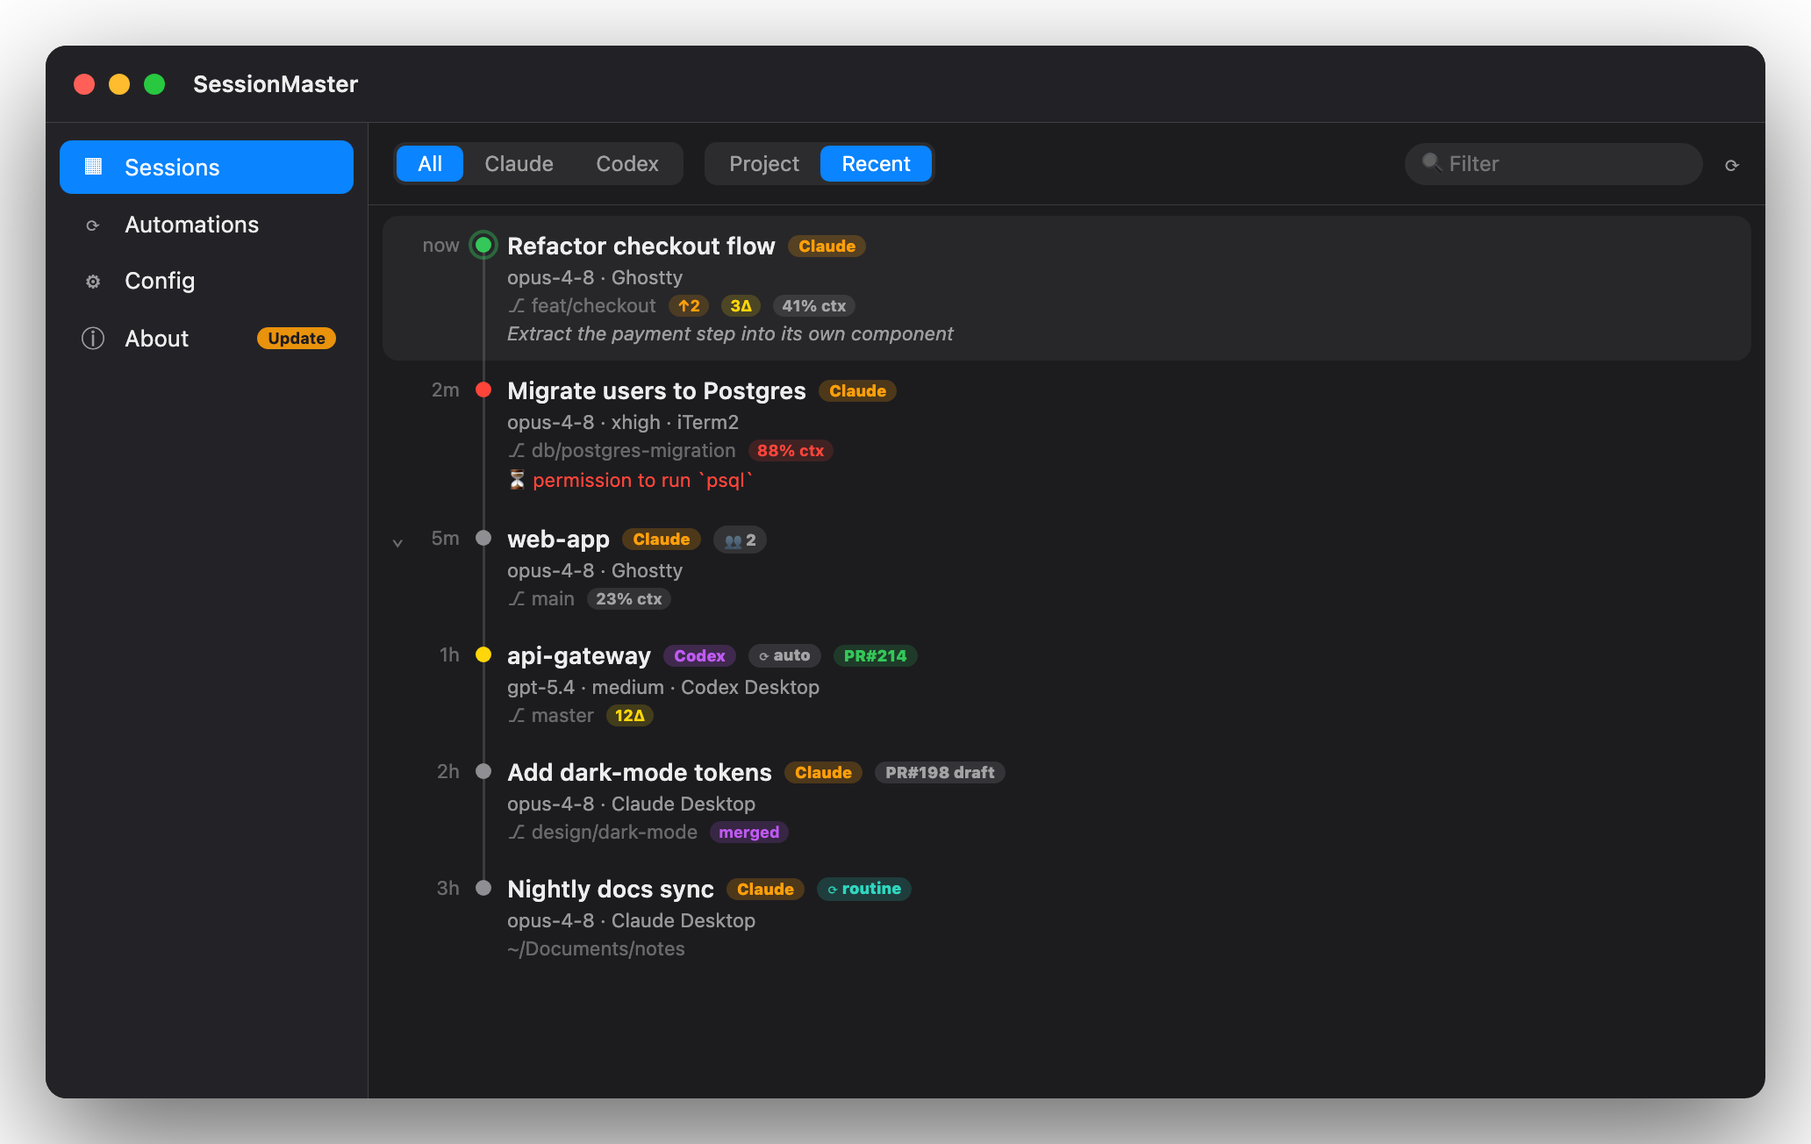
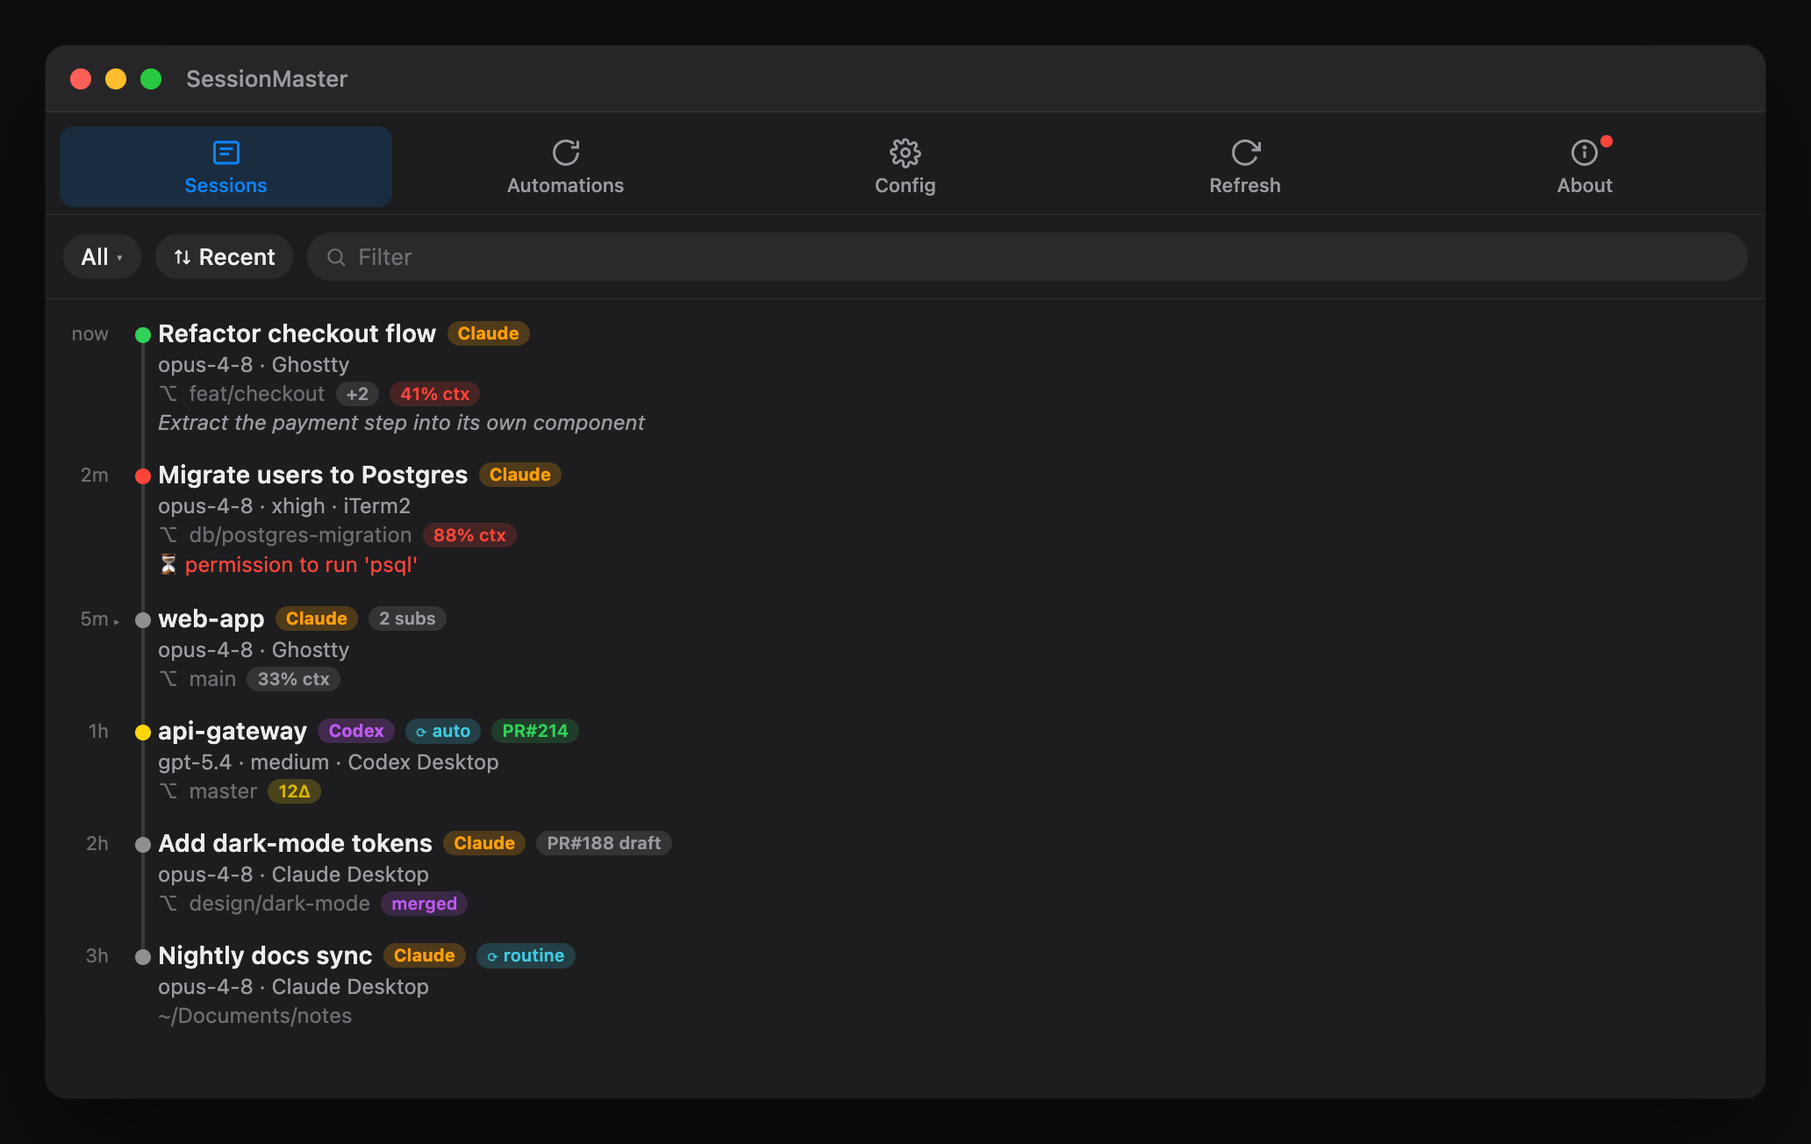
feat: top tab bar + roomier list, collapsible filter, Sort menu
Replace the dashboard sidebar with a Tailscale-style top tab bar (icon over
label, selected highlighted) and fold Refresh into it, left of About. About's
update badge becomes a small red dot on the icon.

Session controls get more flexible in the narrow window:
- source filter collapses to one pill ("All ▾") and expands the three choices
  on tap, snapping back after a pick — saves width;
- Project/Recent fold into a single compact "Sort" menu;
- the search field expands to full width on focus (filter/sort slide away) for
  easier editing of a long query.

Bump every list font one step (Sessions + Automations rows) for readability.

Regenerate the dashboard/popover mockups to match, and fix the README caption
(top tabs, not sidebar).

diff --git a/Sources/SessionMaster/MainWindowView.swift b/Sources/SessionMaster/MainWindowView.swift
@@ -28,37 +28,27 @@ struct MainWindowView: View {
     @State private var settings = AppSettings.shared
     @State private var window: NSWindow?
     @State private var didSetInitialSize = false
-    // Start with the sidebar hidden so the window opens as a narrow session list; the title-bar
-    // sidebar toggle (and ⌃⌘S) reveals the tabs on demand.
-    @State private var columnVisibility: NavigationSplitViewVisibility = .detailOnly
+    @FocusState private var searchFocused: Bool
+    @State private var filterExpanded = false
     private let perProjectLimit = 5
 
     var body: some View {
-        // Collapsible sidebar, but driven by an explicit columnVisibility binding so the toggle
-        // animates to a defined state instead of getting stuck half-overlaid (the default
-        // NavigationSplitView without a binding glitches on macOS).
-        NavigationSplitView(columnVisibility: $columnVisibility) {
-            List(DashboardTab.allCases, id: \.self, selection: Binding(
-                get: { store.selectedTab }, set: { if let v = $0 { store.selectedTab = v } })) { tab in
-                Label(tab.rawValue, systemImage: tab.icon)
-                    .badge(tab == .about && store.availableUpdate != nil ? "Update" : nil)
-                    .tag(tab)
-            }
-            .navigationSplitViewColumnWidth(min: 150, ideal: 168, max: 220)
-        } detail: {
-            VStack(spacing: 0) {
-                if store.selectedTab == .sessions { sessionControls; Divider() }
-                if !store.accessibilityTrusted { AccessibilityBanner(store: store) }
-                switch store.selectedTab {
-                case .sessions:    sessionsList
-                case .automations: automationsList
-                case .config:      ConfigView(store: store)
-                case .about:       AboutView()
-                }
+        // A compact top tab bar (icon over label, selected one highlighted) replaces the old
+        // sidebar — it keeps the window narrow without stealing a whole column, and the tabs are
+        // always visible instead of hidden behind a toggle.
+        VStack(alignment: .leading, spacing: 0) {
+            tabBar
+            Divider()
+            if store.selectedTab == .sessions { sessionControls; Divider() }
+            if !store.accessibilityTrusted { AccessibilityBanner(store: store) }
+            switch store.selectedTab {
+            case .sessions:    sessionsList
+            case .automations: automationsList
+            case .config:      ConfigView(store: store)
+            case .about:       AboutView()
             }
         }
-        .navigationSplitViewStyle(.balanced)
-        .frame(minWidth: 420, minHeight: 460)
+        .frame(minWidth: 380, minHeight: 460)
         .background(.background)
         .background(WindowAccessor { window = $0; applyAlwaysOnTop(); applyInitialSize() })
         .onChange(of: settings.dashboardAlwaysOnTop) { applyAlwaysOnTop() }
@@ -95,26 +85,139 @@ struct MainWindowView: View {
         }
     }
 
-    // MARK: Session controls (filter / sort / search — the tabs live in the sidebar now)
+    // MARK: Tab bar (Tailscale-style: icon over label, the selected one highlighted)
+
+    private var tabBar: some View {
+        HStack(spacing: 4) {
+            ForEach([DashboardTab.sessions, .automations, .config], id: \.self) { tabButton($0) }
+            // Refresh lives here (left of About), styled like a tab (icon + label) for consistency
+            // but without the selected highlight since it's an action, not a tab. It re-scans every
+            // session's latest state now (the app also auto-polls every 2s).
+            Button { store.refresh() } label: {
+                VStack(spacing: 3) {
+                    Image(systemName: "arrow.clockwise").font(.system(size: 15, weight: .medium))
+                    Text("Refresh").font(.system(size: 10, weight: .medium)).lineLimit(1)
+                }
+                .frame(maxWidth: .infinity).padding(.vertical, 6)
+                .foregroundStyle(.secondary).contentShape(Rectangle())
+            }
+            .buttonStyle(.plain).pointerCursor().help("Refresh now — re-scan all sessions")
+            tabButton(.about)
+        }
+        .padding(.horizontal, 8).padding(.top, 8).padding(.bottom, 4)
+    }
+
+    private func tabButton(_ tab: DashboardTab) -> some View {
+        let selected = store.selectedTab == tab
+        let hasUpdate = tab == .about && store.availableUpdate != nil
+        return Button { store.selectedTab = tab } label: {
+            VStack(spacing: 3) {
+                Image(systemName: tab.icon).font(.system(size: 15, weight: .medium))
+                    // A small dot on About flags an available update (replaces the old badge).
+                    .overlay(alignment: .topTrailing) {
+                        if hasUpdate {
+                            Circle().fill(.red).frame(width: 6, height: 6).offset(x: 5, y: -2)
+                        }
+                    }
+                Text(tab.rawValue).font(.system(size: 10, weight: .medium)).lineLimit(1)
+            }
+            .frame(maxWidth: .infinity)
+            .padding(.vertical, 6)
+            .foregroundStyle(selected ? Color.accentColor : Color.secondary)
+            .background(RoundedRectangle(cornerRadius: 8)
+                .fill(selected ? Color.accentColor.opacity(0.14) : .clear))
+            .contentShape(Rectangle())
+        }
+        .buttonStyle(.plain).pointerCursor()
+        .help(tab.rawValue + (hasUpdate ? " — update available" : ""))
+    }
+
+    // MARK: Session controls (filter / sort / search)
 
     private var sessionControls: some View {
-        HStack(spacing: 12) {
-            Picker("", selection: $sourceFilter) {
-                ForEach(SourceFilter.allCases, id: \.self) { Text($0.rawValue).tag($0) }
-            }.pickerStyle(.segmented).fixedSize()
-            Picker("", selection: $sortMode) {
+        // Fits the narrow (~380pt) default: a collapsible source filter + a compact Sort menu keep
+        // their natural size; the search field absorbs the rest. On focus the filter/sort slide away
+        // so the input grows to the full width — easier to read/edit a long query.
+        HStack(spacing: 8) {
+            if !searchFocused {
+                sourceFilterControl
+                sortControl
+            }
+            searchField
+        }
+        .padding(.horizontal, 8).padding(.vertical, 10)
+        .animation(.easeInOut(duration: 0.18), value: searchFocused)
+        .animation(.easeInOut(duration: 0.18), value: filterExpanded)
+        .onChange(of: searchFocused) { if searchFocused { filterExpanded = false } }
+    }
+
+    /// Source filter that saves width: collapsed to one pill showing the active source; tap to
+    /// expand the three choices, and picking one collapses it back.
+    @ViewBuilder private var sourceFilterControl: some View {
+        if filterExpanded {
+            HStack(spacing: 2) {
+                ForEach(SourceFilter.allCases, id: \.self) { f in
+                    let on = sourceFilter == f
+                    Button { sourceFilter = f; filterExpanded = false } label: {
+                        Text(f.rawValue).font(.caption.weight(.medium))
+                            .padding(.horizontal, 8).padding(.vertical, 4)
+                            .background(RoundedRectangle(cornerRadius: 7)
+                                .fill(on ? Color.accentColor.opacity(0.18) : Color.primary.opacity(0.06)))
+                            .foregroundStyle(on ? Color.accentColor : .primary)
+                    }.buttonStyle(.plain).pointerCursor()
+                }
+            }
+        } else {
+            // Tint the pill when a non-default filter is active so it reads as "filtered".
+            let active = sourceFilter != .all
+            Button { filterExpanded = true } label: {
+                HStack(spacing: 3) {
+                    Text(sourceFilter.rawValue).font(.caption.weight(.medium))
+                    Image(systemName: "chevron.down").font(.system(size: 8, weight: .semibold))
+                }
+                .padding(.horizontal, 8).padding(.vertical, 4)
+                .foregroundStyle(active ? Color.accentColor : .primary)
+                .background(active ? Color.accentColor.opacity(0.14) : Color.primary.opacity(0.06))
+                .clipShape(Capsule())
+            }.buttonStyle(.plain).pointerCursor().help("Filter by source")
+        }
+    }
+
+    /// Project / Recent aggregated into one compact "Sort" dropdown.
+    private var sortControl: some View {
+        Menu {
+            Picker("Sort", selection: $sortMode) {
                 ForEach(SortMode.allCases, id: \.self) { Text($0.rawValue).tag($0) }
-            }.pickerStyle(.segmented).fixedSize().help("Sort order")
-            Spacer()
-            HStack(spacing: 4) {
-                Image(systemName: "magnifyingglass").foregroundStyle(.secondary).font(.caption)
-                TextField("Filter", text: $search).textFieldStyle(.plain).frame(width: 160)
+            }
+        } label: {
+            HStack(spacing: 3) {
+                Image(systemName: "arrow.up.arrow.down").font(.system(size: 9, weight: .semibold))
+                Text(sortMode.rawValue).font(.caption.weight(.medium))
             }
             .padding(.horizontal, 8).padding(.vertical, 4)
             .background(Color.primary.opacity(0.06)).clipShape(Capsule())
-            Button { store.refresh() } label: { Image(systemName: "arrow.clockwise") }
-                .buttonStyle(.borderless).help("Refresh now").pointerCursor()
-        }.padding(10)
+        }
+        .menuStyle(.borderlessButton).menuIndicator(.hidden).fixedSize()
+        .pointerCursor().help("Sort order")
+    }
+
+    private var searchField: some View {
+        HStack(spacing: 4) {
+            Image(systemName: "magnifyingglass").foregroundStyle(.secondary).font(.caption)
+            TextField("Filter", text: $search).textFieldStyle(.plain).focused($searchFocused)
+            if !search.isEmpty {
+                Button { search = "" } label: {
+                    Image(systemName: "xmark.circle.fill").foregroundStyle(.secondary).font(.caption)
+                }.buttonStyle(.plain).pointerCursor()
+            }
+            if searchFocused {
+                Button("Done") { searchFocused = false }
+                    .buttonStyle(.plain).font(.caption).foregroundStyle(.tint).pointerCursor()
+            }
+        }
+        .padding(.horizontal, 8).padding(.vertical, 5)
+        .frame(maxWidth: .infinity)
+        .background(Color.primary.opacity(0.06)).clipShape(Capsule())
     }
 
     // MARK: Sessions (grouped by project)
@@ -163,13 +266,16 @@ struct MainWindowView: View {
             // Plain scroll with zero inter-row spacing so each row's timeline rail joins the next
             // into one continuous vertical line (a List inserts gaps that break the rail).
             ScrollView {
-                LazyVStack(spacing: 0) {
+                // Leading alignment + full-width rows so a row wider than the (narrow) window
+                // truncates on the right instead of centering and clipping both edges.
+                LazyVStack(alignment: .leading, spacing: 0) {
                     ForEach(Array(recentNodes.enumerated()), id: \.element.id) { idx, node in
                         SessionNodeView(node: node, expanded: $expandedNodes, store: store,
                                         isFirst: idx == 0, isLast: idx == recentNodes.count - 1)
+                            .frame(maxWidth: .infinity, alignment: .leading)
                             .padding(.horizontal, 6)
                     }
-                }.padding(.vertical, 6)
+                }.padding(.vertical, 6).frame(maxWidth: .infinity)
             }
         } else {
             List {

diff --git a/Sources/SessionMaster/SessionRowView.swift b/Sources/SessionMaster/SessionRowView.swift
@@ -33,16 +33,16 @@ struct SessionRowView: View {
                 HStack(spacing: 6) {
                     if editing {
                         TextField("Title", text: $draft)
-                            .textFieldStyle(.roundedBorder).font(.system(size: isChild ? 12 : 13))
+                            .textFieldStyle(.roundedBorder).font(.system(size: isChild ? 13 : 14))
                             .frame(maxWidth: 220).focused($titleFocused)
                             .onAppear { titleFocused = true }
                             .onSubmit { onRename?(draft); editing = false }
                             .onExitCommand { editing = false }
                     } else {
                         Text(session.displayTitle)
-                            .font(.system(size: isChild ? 12 : 13, weight: .medium)).lineLimit(1)
+                            .font(.system(size: isChild ? 13 : 14, weight: .medium)).lineLimit(1)
                         if session.rich.customTitle != nil {
-                            Image(systemName: "pencil").font(.system(size: 8)).foregroundStyle(.tertiary)
+                            Image(systemName: "pencil").font(.system(size: 9)).foregroundStyle(.tertiary)
                         }
                         sourceBadge
                         if session.isEnded { resumeChip }
@@ -54,15 +54,15 @@ struct SessionRowView: View {
                 }
                 metaLine
                 HStack(spacing: 6) {
-                    if session.isWorktree { Image(systemName: "arrow.triangle.branch").font(.system(size: 9)) }
-                    Text(branchOrPath).font(.caption2).foregroundStyle(.tertiary).lineLimit(1)
+                    if session.isWorktree { Image(systemName: "arrow.triangle.branch").font(.system(size: 10)) }
+                    Text(branchOrPath).font(.caption).foregroundStyle(.tertiary).lineLimit(1)
                     gitChips
                 }
                 if let sub = session.subtitle, !sub.isEmpty {
-                    Text(sub).font(.caption2).foregroundStyle(.secondary).lineLimit(1).italic()
+                    Text(sub).font(.caption).foregroundStyle(.secondary).lineLimit(1).italic()
                 }
                 if session.attention == .needsApproval, let w = session.waitingFor {
-                    Text("⏳ \(w)").font(.caption2).foregroundStyle(.red).lineLimit(1)
+                    Text("⏳ \(w)").font(.caption).foregroundStyle(.red).lineLimit(1)
                 }
             }
             .padding(.vertical, rowVPad)
@@ -107,7 +107,7 @@ struct SessionRowView: View {
                 .padding(.top, 4).help(session.attention.label)
         } else {
             HStack(alignment: .top, spacing: 5) {
-                Text(relativeAge ?? "").font(.system(size: 10)).foregroundStyle(.tertiary)
+                Text(relativeAge ?? "").font(.system(size: 11)).foregroundStyle(.tertiary)
                     .frame(width: 28, alignment: .trailing).padding(.top, rowVPad)
                 ZStack(alignment: .top) {
                     railLine
@@ -136,7 +136,7 @@ struct SessionRowView: View {
 
     private var sourceBadge: some View {
         Text(session.source.isCodex ? "Codex" : "Claude")
-            .font(.system(size: 9, weight: .bold))
+            .font(.system(size: 10, weight: .bold))
             .padding(.horizontal, 5).padding(.vertical, 1)
             .background(session.source.isCodex ? Color.purple.opacity(0.22) : Color.orange.opacity(0.22))
             .foregroundStyle(session.source.isCodex ? .purple : .orange)
@@ -144,7 +144,7 @@ struct SessionRowView: View {
     }
 
     private func chip(_ text: String, _ color: Color) -> some View {
-        Text(text).font(.system(size: 9, weight: .semibold))
+        Text(text).font(.system(size: 10, weight: .semibold))
             .padding(.horizontal, 5).padding(.vertical, 1)
             .background(color.opacity(0.18)).foregroundStyle(color).clipShape(Capsule())
     }
@@ -183,8 +183,8 @@ struct SessionRowView: View {
     /// or a Claude routine ("routine"). Same clock glyph as the Automations tab.
     private func scheduleBadge(_ text: String, _ color: Color) -> some View {
         HStack(spacing: 2) {
-            Image(systemName: "clock.arrow.2.circlepath").font(.system(size: 8))
-            Text(text).font(.system(size: 9, weight: .bold))
+            Image(systemName: "clock.arrow.2.circlepath").font(.system(size: 9))
+            Text(text).font(.system(size: 10, weight: .bold))
         }
         .padding(.horizontal, 5).padding(.vertical, 1)
         .background(color.opacity(0.18)).foregroundStyle(color)
@@ -195,8 +195,8 @@ struct SessionRowView: View {
     /// so this is the at-a-glance count).
     private var subagentChip: some View {
         HStack(spacing: 2) {
-            Image(systemName: "person.2.fill").font(.system(size: 8))
-            Text("\(subagentCount)").font(.system(size: 9, weight: .bold))
+            Image(systemName: "person.2.fill").font(.system(size: 9))
+            Text("\(subagentCount)").font(.system(size: 10, weight: .bold))
         }
         .padding(.horizontal, 5).padding(.vertical, 1)
         .background(Color.secondary.opacity(0.18)).foregroundStyle(.secondary)
@@ -206,8 +206,8 @@ struct SessionRowView: View {
     /// Marks an ended session — the terminal is gone, but click to resume it in a new Terminal.
     private var resumeChip: some View {
         HStack(spacing: 2) {
-            Image(systemName: "arrow.clockwise").font(.system(size: 8, weight: .bold))
-            Text("resume").font(.system(size: 9, weight: .bold))
+            Image(systemName: "arrow.clockwise").font(.system(size: 9, weight: .bold))
+            Text("resume").font(.system(size: 10, weight: .bold))
         }
         .padding(.horizontal, 5).padding(.vertical, 1)
         .background(Color.blue.opacity(0.2)).foregroundStyle(.blue)
@@ -221,7 +221,7 @@ struct SessionRowView: View {
             Text("·").foregroundStyle(.quaternary)
             Text(session.terminal.terminalApp ?? originatorText)
             if session.terminal.viaTmux { Text("· tmux") }
-        }.font(.caption2).foregroundStyle(.secondary).lineLimit(1)
+        }.font(.caption).foregroundStyle(.secondary).lineLimit(1)
     }
 
     /// Last-activity age, e.g. "2m" / "3h" — the freshness signal for active vs stale.

diff --git a/Sources/SessionMaster/JobRowView.swift b/Sources/SessionMaster/JobRowView.swift
@@ -9,17 +9,17 @@ struct JobRowView: View {
     var body: some View {
         HStack(alignment: .top, spacing: 8) {
             Image(systemName: job.source == .codex ? "clock.arrow.2.circlepath" : "repeat")
-                .font(.system(size: 11))
+                .font(.system(size: 12))
                 .foregroundStyle(job.isPaused ? Color.secondary : (job.source == .codex ? .purple : .orange))
                 .padding(.top, 2)
             VStack(alignment: .leading, spacing: 2) {
-                Text(job.name).font(.system(size: 12, weight: .medium)).lineLimit(1)
+                Text(job.name).font(.system(size: 13, weight: .medium)).lineLimit(1)
                     .foregroundStyle(job.isPaused ? .secondary : .primary)
                 HStack(spacing: 6) {
                     Text(scheduleText)
                     if let m = job.model { Text("· \(m)") }
                     if let e = job.effort { Text("· \(e)") }
-                }.font(.caption2).foregroundStyle(.secondary).lineLimit(1)
+                }.font(.caption).foregroundStyle(.secondary).lineLimit(1)
             }
             Spacer(minLength: 4)
             if let cwd = job.primaryCwd {

diff --git a/Sources/SessionMaster/SessionNodeView.swift b/Sources/SessionMaster/SessionNodeView.swift
@@ -61,8 +61,8 @@ struct SessionNodeView: View {
     private func compactChild(_ s: UnifiedSession) -> some View {
         HStack(spacing: 6) {
             Circle().fill(s.attention.color.opacity(0.7)).frame(width: 5, height: 5)
-            Text(s.displayTitle).font(.system(size: 11)).foregroundStyle(.secondary).lineLimit(1)
-            Text(s.source.isCodex ? "Codex" : "sub").font(.system(size: 8, weight: .semibold))
+            Text(s.displayTitle).font(.system(size: 12)).foregroundStyle(.secondary).lineLimit(1)
+            Text(s.source.isCodex ? "Codex" : "sub").font(.system(size: 9, weight: .semibold))
                 .foregroundStyle(.tertiary)
             Spacer(minLength: 0)
         }

diff --git a/README.md b/README.md
@@ -77,7 +77,7 @@ puts it in one place, with one-click recall.
 
 <p align="center">
   <img src="docs/images/dashboard.png" alt="SessionMaster dashboard window" width="760"><br>
-  <sub>The dashboard — sidebar tabs, source filter, Project/Recent sort, search, and a rich row per session.</sub>
+  <sub>The dashboard — top tabs, a collapsible source filter, a Sort menu, search, and a rich row per session.</sub>
 </p>
 
 ### Status colors
